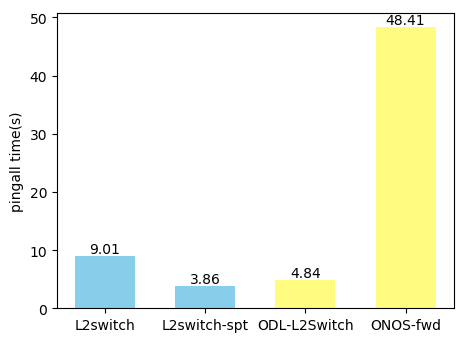
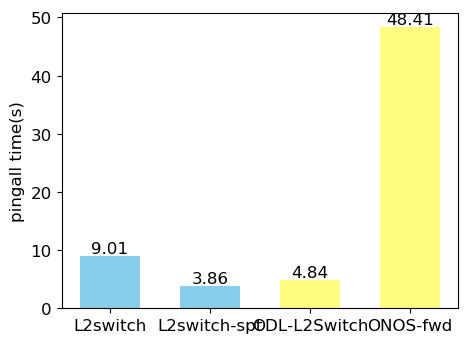
test 1 2 3

Changed region(s): [[0.0, 0.0292, 0.9893, 0.9649], [0.8094, 0.0292, 0.9293, 0.0877], [0.5996, 0.7602, 0.7195, 0.8187]]

diff --git a/mininet/plot/eval.py b/mininet/plot/eval.py
@@ -4,10 +4,14 @@ import matplotlib
 from matplotlib import pyplot as plt
 
 matplotlib.rcParams['figure.figsize']=[6.4*0.8,4.8*0.8]
+matplotlib.rcParams['font.size']=12
+
+themecolor1 = 'skyblue'
+themecolor2 = '#FFFC7F'
 
 def plotgraph(name,data,tick_label,ylabel,color):
     plt.clf()
-    plt.bar(range(len(data)), data,width=0.15*len(data),tick_label=tick_label,color=color)
+    plt.bar(range(len(data)), data,width=min(0.8,0.15*len(data)),tick_label=tick_label,color=color)
     for i in range(len(data)):
         y = data[i]
         plt.text(i,y,'%.2f'%y,ha='center',va='bottom')
@@ -16,13 +20,13 @@ def plotgraph(name,data,tick_label,ylabel,color):
 
 
 
-
+'''
 data = [[0.074, 0.081, 0.571, 0.074],
         [0.358, 0.278, 1.104, 0.240],
         [1.738, 1.058, 1.760, 2.338],
         [9.010, 3.859, 4.845, 48.411]]
 la =['L2switch','L2switch-spt','ODL-L2Switch','ONOS-fwd']
-color = ['skyblue','skyblue','#FFFC7F','#FFFC7F']
+color = [themecolor1,themecolor1,themecolor2,themecolor2]
 
 for i,d in enumerate(data,1):
     plotgraph('figure1_%d'%i,d,la,'pingall time(s)',color)
@@ -30,7 +34,7 @@ for i,d in enumerate(data,1):
 data = [[45.25, 2059.75, 65.25],
         [33.75, 4004.25, 0]]
 la =['L2switch','ODL-L2Switch','ONOS-fwd']
-color = ['skyblue','#FFFC7F','#FFFC7F']
+color = [themecolor1,themecolor2,themecolor2]
 
 for i,d in enumerate(data,1):
     plotgraph('figure2_%d'%i,d,la,'recovery time(ms)',color)
@@ -38,16 +42,53 @@ for i,d in enumerate(data,1):
 
 data = [18.15, 13.38]
 la =['L7Test','ODL-L2Switch']
-color = ['skyblue','#FFFC7F']
+color = [themecolor1,themecolor2]
 plotgraph('figure3_1',data,la,'cost time(s)',color)
 
 data = [57.460, 78.639]
 plotgraph('figure3_2',data,la,'traffic rate(Mbytes/sec)',color)
 
+'''
 
-data = [116.305,23.343,115.722,115.594,31.103]
-la = ['P1','P2','P3','ONOS','ODL']
-color = 'skyblue'
+#########################################################
+
+# data = [116.305,23.343,115.722,115.594,31.103]
+# la = ['P1','P2','P3','ONOS','ODL']
+# color = themecolor1
+# plotgraph('test3',data,la,'traffic rate(Mbytes/s)',color)
+
+data = [[0.695, 0.502, 0.253,   0.945, 0.144],
+        [17.202,5.916, 1.72, 71.578,3.234],
+        [0.234,0.185,  0.12,  0.376,0.130],
+        [2.495,1.686,  0.387, 4.23,0.685]]
+la =['SP','Spanning','Flood','ONOS','ODL']
+
+color = [themecolor1,themecolor1,themecolor1,themecolor2,themecolor2]
+
+topo=['Sprint_11_29','Geant2012_40_101','Basnet_7_13','Noel_19_44']
+
+for i,d in enumerate(data):
+    plotgraph('test1_%s'%topo[i],d,la,'pingall time(s)',color)
+
+
+
+data = [[45.25, 2059.75, 65.25],
+        [33.75, 4004.25, 0]]
+la =['SP','ODL','ONOS']
+color = [themecolor1,themecolor2,themecolor2]
+
+for i,d in enumerate(data,1):
+    plotgraph('test2_%d'%i,d,la,'recovery time(ms)',color)
+
+
+
+
+matplotlib.rcParams['figure.figsize']=[6.4,4.8]
+matplotlib.rcParams['font.size']=10
+
+data = [116.305, 23.343, 27.729,      104.579,       115.722,      115.594, 31.103]
+la =   ['P1'   , 'P2'  , 'P3-1', 'P3-2', 'P3-3',  'ONOS',  'ODL']
+color = [*(themecolor1,)*5,*(themecolor2,)*2]
 plotgraph('test3',data,la,'traffic rate(Mbytes/s)',color)
-plt.show()
+
 

diff --git a/mininet/README.md b/mininet/README.md
@@ -8,6 +8,7 @@
 * Ubuntu 16.04
 * OpenDaylight Carbon
 * ONOS 1.12.0
+* Mininet 2.3.0d1
 
 ### 测试拓扑: Noel
 
